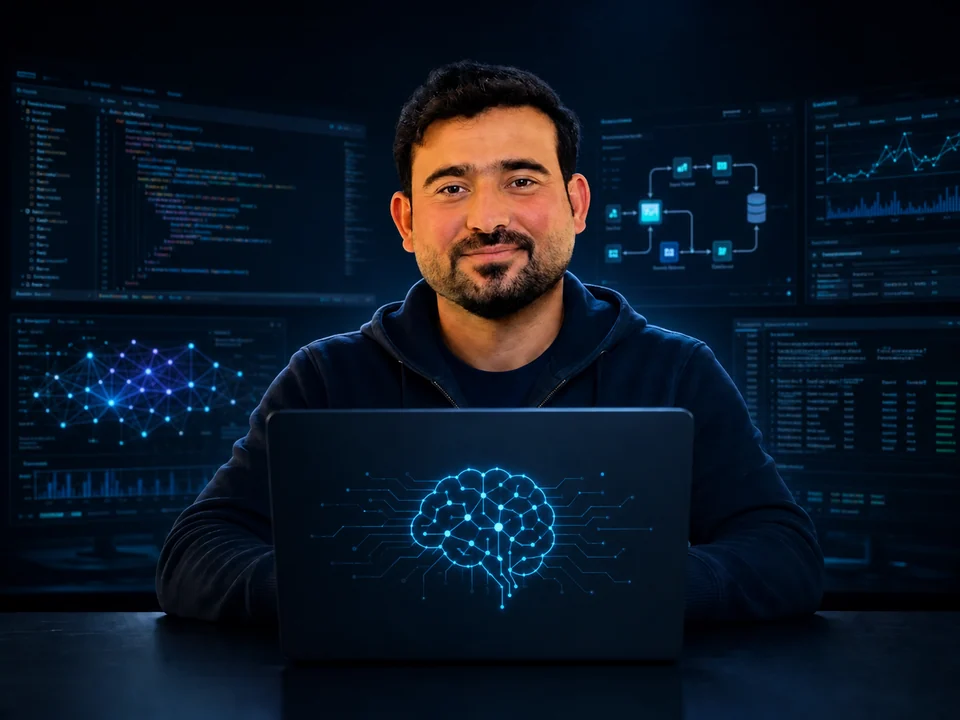
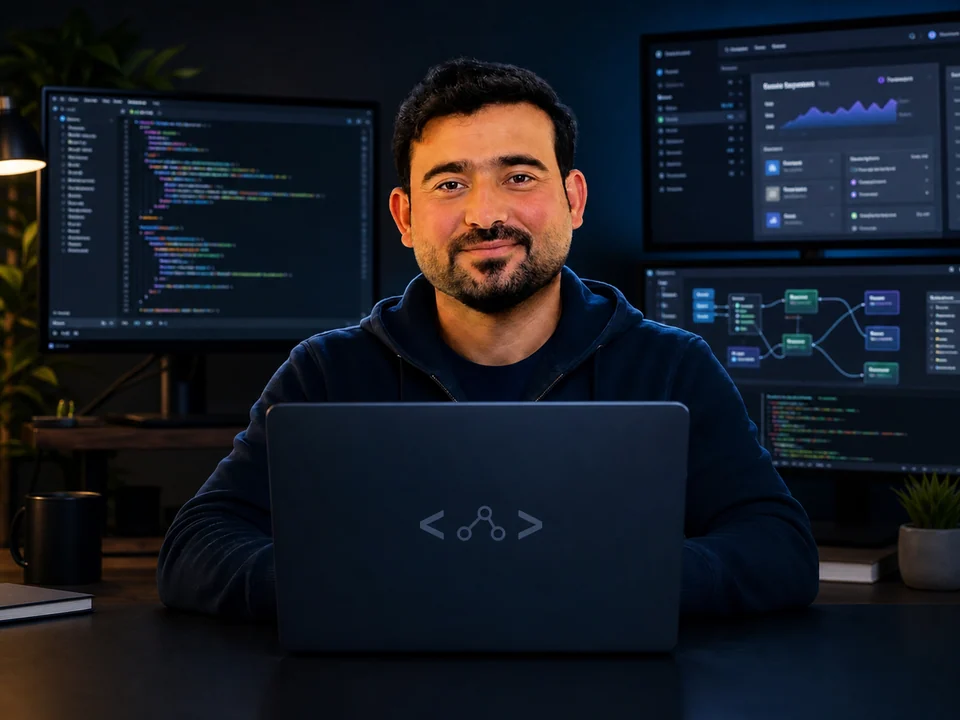
Replace cyber hero with AI developer studio

diff --git a/README.md b/README.md
@@ -1,5 +1,5 @@
 <p align="center">
-  <img src="./assets/hero/shabbir-hero.svg?v=ai-developer-20260902" width="100%" alt="Shabbir Dev — Full-Stack Software Engineer, AI-Native Web Engineer, and Product Builder" />
+  <img src="./assets/hero/shabbir-hero.svg?v=ai-dev-studio-20260902b" width="100%" alt="Shabbir Dev — Full-Stack Software Engineer, AI-Native Web Engineer, and Product Builder" />
 </p>
 
 <p align="center">
